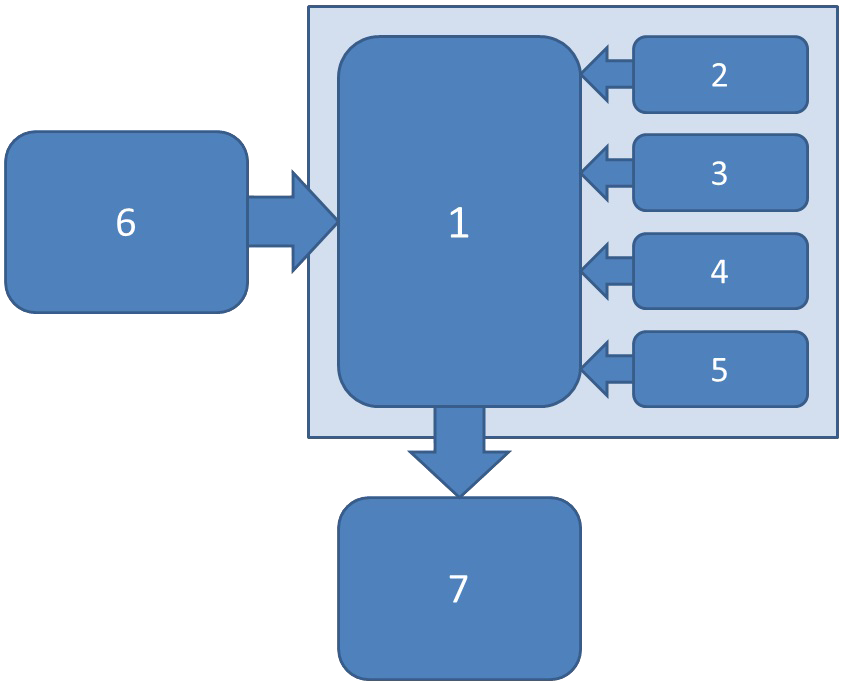
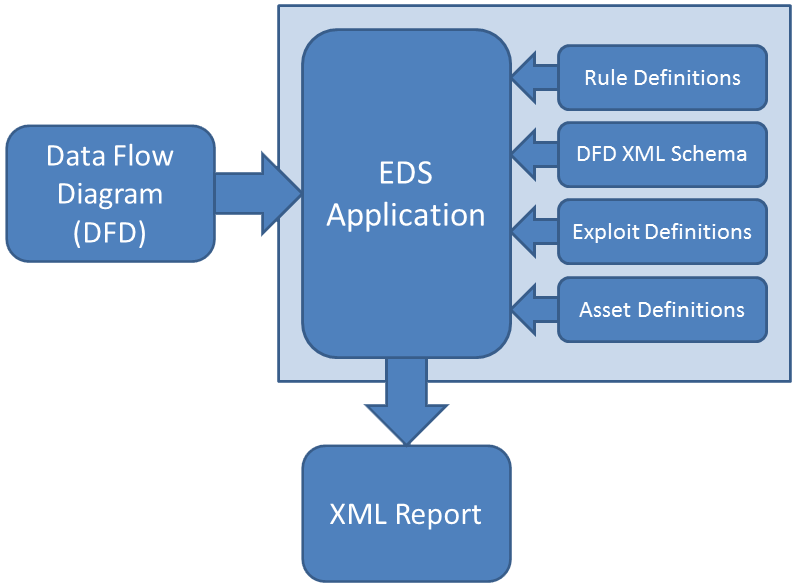
git: Readme spelling errors corrected, structure image changed

Changed region(s): [[0.0, 0.0, 1.0, 1.0]]

diff --git a/README.md b/README.md
@@ -2,14 +2,18 @@
 
 <p align="center"><img src="https://github.com/NNemanjaMM/EDS/blob/master/Wiki-Resources/icon.png"/></p>
 
-Exploits Detection System (EDS) is a system that analyzes given diagram in order to find potential security exploits.
+Exploits Detection System (EDS) is a system that analyzes data flow diagrams (DFD), in order to find potential security exploits.
 
-System diagrams created in accordance with given XML schema can be loaded into the EDS. After that, EDS decomposes input diagrams into risk patterns. A set of rules, which is defined in rule-based engine, is applied to every single risk pattern that was found. Rules analyze components, attributes and assets of every pattern in order to find potential exploits. List of exploits discovered for given patterns will be created for user as an XML repport, consisted of detail description and recommended countermeasures.
+EDS decomposes the input diagrams into risk patterns. The risk pattern consists of two diagram nodes and all other links and nodes which are linking them. A set of rules, which are defined for the rule-based engine, is applied to every single risk pattern that was found. Rules analyze components of the DFD, attributes of those components and assets mapped to those components for every pattern, in order to find vulnerabilities. Rules are then assigning exploits that could exploit the vulnerability that was found. List of exploits discovered for given patterns will be created for the user as an XML report, consisted of detailed descriptions of the vulnerabilities and exploits, as well as the recommended countermeasures.
 
-Exploits and assets are defined in separate XML files and can easely be changed. Rules are written using drools.
+Exploits and assets are defined in separate XML files and can easily be changed. Rules are written using drools.
+
+System structure alongside with its input and output can be seen in the image below.
+
+<p align="center"><img width="400" src="https://github.com/NNemanjaMM/EDS/blob/master/Wiki-Resources/structure.png"/></p>
 
 ## Motivation
-This system is created as master's thesis work. The overal goal is to create useful software for detecting security exploits over the given system diagram. Moreover, this is a great opportunity for improving knowledge and capabilities in the domain of IT security and rule-based systems.
+This system is created as master's thesis work. The overall goal is to create useful software for detecting security exploits over the given system diagram. Moreover, this is a great opportunity for improving knowledge and capabilities in the domain of IT security and rule-based systems.
 
 ## Contribute
 ### Prerequisites:
@@ -18,7 +22,7 @@ This system is created as master's thesis work. The overal goal is to create use
 
 ### Building and Running:
 - Clone or download project
-- Open project with your Java IDE (Eclipse, InteliJ, or some other)
+- Open project with your Java IDE (Eclipse, IntelliJ, or some other)
 - Build project (Maven will automatically download required libraries)
 - Run application
 
